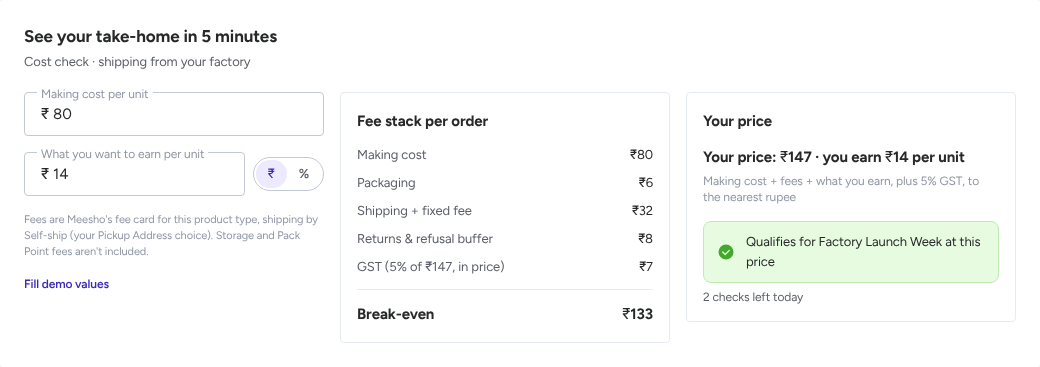
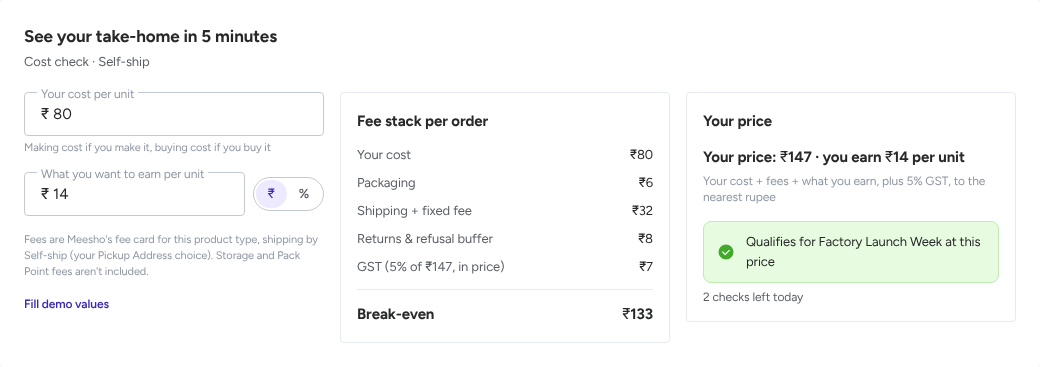
Factory Launch open to every seller whose price qualifies: 3-item eligibility drawer opening in place, cost check with his own earning and Check price, reseller demo step
Claude-Session: https://claude.ai/code/session_01FXha9ttigUE2ttiZmZeqHv

diff --git a/src/layout/demoGuide.ts b/src/layout/demoGuide.ts
@@ -43,6 +43,18 @@ function makerRecords(p: typeof J | typeof R): MakerRecords {
   return { taxId: p.taxId, businessType: p.businessType, gstNatureOfBusiness: p.gstNatureOfBusiness, udyamMajorActivity: p.udyam.majorActivity } as MakerRecords;
 }
 
+/** The reseller's cost check (team, 22 Oct 2026): his bought-in bottle at his own margin, self-ship. */
+function resellerNumbers() {
+  const p = R.product!;
+  const s = costStack(p.type as ProductTypeId, p.makingCost, p.marginPct, 'selfShip');
+  return {
+    resellerCost: p.makingCost,
+    resellerEarn: s.takeHome,
+    resellerPrice: s.listPrice,
+    resellerQualifies: checkListingPrice(p.type as ProductTypeId, s.listPrice, s.breakEven) === 'qualifies',
+  };
+}
+
 /** Every value the guide quotes, from the engine and the seed. */
 export function guideNumbers() {
   const stack = costStack(J_TYPE, J.product.makingCost, J.product.marginPct, 'selfShip');
@@ -71,7 +83,7 @@ export function guideNumbers() {
     bandLow: demandForType(J_TYPE).priceBand!.low,
     bandHigh: demandForType(J_TYPE).priceBand!.high,
     jasmeetEligible: eligibility(makerRecords(J)).status,
-    resellerEligible: eligibility(makerRecords(R)).status,
+    ...resellerNumbers(),
     botFills: BOT_FILLED_COUNT,
     makerAdds: MAKER_COUNT,
     suggestedLot: suggestedLot(J_TYPE, J.product.makingCost).units,
@@ -143,7 +155,7 @@ export function buildGuide(): GuideStep[] {
       D.onboarding,
       'jasmeet',
       'Outreach, onboarding, what she makes',
-      `${jn} gets a ${n.category} invitation (no product named) → Meesho’s own sign-up → onboarding → finish screen: she picks the ${n.jasmeetType} → teaser “about ${n.gapLow} orders a week at ₹${n.bandLow}–${n.bandHigh}” → cost check: she types ₹${n.makingCost} making cost and ₹${n.takeHome} to earn → “Your price: ₹${n.listPrice} · you earn ₹${n.takeHome}” → Check price: ${yes(n.listQualifies, 'qualifies', 'doesn’t qualify')} → Check my eligibility opens the checklist drawer.`,
+      `${jn} gets a ${n.category} invitation (no product named) → Meesho’s own sign-up → onboarding → finish screen: she picks the ${n.jasmeetType} → teaser “about ${n.gapLow} orders a week at ₹${n.bandLow}–${n.bandHigh}” → cost check: she types ₹${n.makingCost} cost and ₹${n.takeHome} to earn → “Your price: ₹${n.listPrice} · you earn ₹${n.takeHome}” → Check price: ${yes(n.listQualifies, 'qualifies', 'doesn’t qualify')} → Check my eligibility opens the checklist drawer.`,
       { label: 'Open outreach', persona: 'jasmeet', day: D.onboarding, path: onboarding.outreach },
       [
         { label: 'Sign-up', persona: 'jasmeet', day: D.onboarding, path: onboarding.signup },
@@ -154,10 +166,10 @@ export function buildGuide(): GuideStep[] {
       2,
       D.onboarding,
       'jasmeet',
-      'Business Details checks',
-      `Business Details: GST + Udyam pass → ${n.jasmeetEligible === 'eligible' ? 'eligible' : n.jasmeetEligible}. (Switch to Reseller: ${n.resellerEligible === 'notEligible' ? 'not eligible' : n.resellerEligible}.)`,
+      'Factory verified · resellers can join, but their margin prices them out',
+      `Business Details: GST + Udyam checks run silently → ${yes(n.jasmeetEligible === 'eligible', 'Factory verified ✓', 'no badge')} (the “Direct from the maker” label and Pack Point access; not a launch gate). As Reseller: cost check ₹${n.resellerCost} + ₹${n.resellerEarn} to earn → “Your price: ₹${n.resellerPrice}” → Check price: ${yes(n.resellerQualifies, 'qualifies', 'not eligible at this price')}. He can still list and sell at ₹${n.resellerPrice}.`,
       { label: 'Open Business Details', path: onboarding.businessDetails },
-      [{ label: 'As Reseller', persona: 'reseller', day: D.onboarding, path: onboarding.businessDetails }],
+      [{ label: 'Reseller’s cost check', persona: 'reseller', day: D.onboarding, path: `${onboarding.done}?state=checked` }],
     ),
     step(
       3,

diff --git a/src/layout/demoGuide.test.ts b/src/layout/demoGuide.test.ts
@@ -25,7 +25,7 @@ describe('demo guide numbers — recomputed from engine/seed', () => {
     expect([n.listPrice, n.takeHome]).toEqual([147, 14]);
     expect(checkListingPrice('steel-bottle-1l', 147, 133)).toBe('qualifies');
     expect(n.listQualifies).toBe(true);
-    expect(text(1)).toContain('₹80 making cost and ₹14 to earn → “Your price: ₹147 · you earn ₹14” → Check price: qualifies');
+    expect(text(1)).toContain('₹80 cost and ₹14 to earn → “Your price: ₹147 · you earn ₹14” → Check price: qualifies');
     // Teaser after onboarding, for the type she picks (plan §10 step 1, updated)
     expect(text(1)).toContain('picks the 1 L steel water bottle → teaser “about 300 orders a week at ₹150–170”');
     expect(text(1)).toContain('Home & Kitchen invitation');
@@ -33,10 +33,14 @@ describe('demo guide numbers — recomputed from engine/seed', () => {
     expect(text(3)).toContain('List at ₹147 · take home ₹14, Qualifies');
   });
 
-  it('Jasmeet eligible, reseller not eligible (step 2)', () => {
-    expect([n.jasmeetEligible, n.resellerEligible]).toEqual(['eligible', 'notEligible']);
-    expect(text(2)).toContain('→ eligible');
-    expect(text(2)).toContain('Reseller: not eligible');
+  it('Jasmeet Factory verified; the reseller’s ₹120 + ₹20 → ₹195 doesn’t qualify (step 2)', () => {
+    expect(n.jasmeetEligible).toBe('eligible');
+    const r = costStack('steel-bottle-1l', 120, 16.7, 'selfShip');
+    expect([r.takeHome, r.breakEven, r.listPrice]).toEqual([20, 175, 195]);
+    expect(checkListingPrice('steel-bottle-1l', 195, 175)).toBe('aboveCap');
+    expect([n.resellerPrice, n.resellerQualifies]).toEqual([195, false]);
+    expect(text(2)).toContain('Factory verified ✓');
+    expect(text(2)).toContain('As Reseller: cost check ₹120 + ₹20 to earn → “Your price: ₹195” → Check price: not eligible at this price');
   });
 
   it('Meesho fills 21, she adds 14 (step 3)', () => {
@@ -121,8 +125,8 @@ describe('demo guide jumps', () => {
     expect(jumpHref(DEMO_GUIDE[3]!.jump)).toMatch(/\?tab=FACTORY_LAUNCH&persona=jasmeet&day=5&lang=en$/);
   });
 
-  it('step 6 links the Business Dashboard; step 2 offers the Reseller', () => {
+  it('step 6 links the Business Dashboard; step 2 offers the Reseller’s cost check (checked)', () => {
     expect(DEMO_GUIDE[5]!.also.map((a) => a.path)).toContain(paths.businessDashboard);
-    expect(DEMO_GUIDE[1]!.also[0]).toMatchObject({ persona: 'reseller', path: onboarding.businessDetails });
+    expect(DEMO_GUIDE[1]!.also[0]).toMatchObject({ persona: 'reseller', path: `${onboarding.done}?state=checked` });
   });
 });

diff --git a/src/layout/Sidebar.tsx b/src/layout/Sidebar.tsx
@@ -85,13 +85,13 @@ function Group({ item, pathname, onNavigate, inactive }: { item: SidebarGroup; p
   );
 }
 
-/** C2M LW-6: "Factory Launch" under Boost Sales, for makers who passed the checks; Promotions → Factory Launch tab. */
+/** C2M LW-6: "Factory Launch" under Boost Sales, for every seller whose product is in the launch category; Promotions → Factory Launch tab. */
 const FL_LEAF: SidebarLeaf = { label: FL.sidebar, icon: '/brand/msa/merlin/filled/promotions-v2.svg', to: paths.factoryLaunch };
 
 export function Sidebar({ onNavigate }: { onNavigate?: () => void }) {
   const { pathname, search } = useLocation();
   const noticesActive = matches(pathname, paths.notices);
-  // LW-6: eligible makers also get the pinned Factory Launch notice, counted in "Notices (n)", and the sidebar item.
+  // LW-6: sellers in the launch category also get the pinned Factory Launch notice, counted in "Notices (n)", and the sidebar item.
   const flEligible = useFlVisible();
   const noticeCount = 1 + (flEligible ? 1 : 0);
   const flActive =

diff --git a/src/pages/onboarding/finish/copy.ts b/src/pages/onboarding/finish/copy.ts
@@ -35,7 +35,7 @@ export const FIN = {
   noDemand: 'No demand data for this product type yet', // prompt
   // FO-5 cost check (the new copy, from the earning input to the Factory Launch status, is in src/i18n: cost.*)
   costTitle: 'See your take-home in 5 minutes', // doc
-  costSub: (mode: 'selfShip' | 'packPoint') => `Cost check · ${mode === 'packPoint' ? 'shipping through the Pack Point' : 'shipping from your factory'}`, // ours (FO-8 choice)
+  costSub: (mode: 'selfShip' | 'packPoint') => `Cost check · ${mode === 'packPoint' ? 'shipping through the Pack Point' : 'Self-ship'}`, // ours (FO-8 choice)
   feeStack: 'Fee stack per order', // ours
   breakEven: 'Break-even', // ours
   noFeeCard: 'The cost check needs this product type’s fee card, which isn’t in this prototype yet.', // ours

diff --git a/src/pages/panel/Home.tsx b/src/pages/panel/Home.tsx
@@ -2,7 +2,7 @@
 //   default    → reference/screens/home.png: step 1 "Upload catalogs to get started"
 //   ?state=qc  → reference/html/meesho-home.html: step 2 with the QC status table
 //   live       → (C2M, LB-8) after "Go live" from photos: step 2 shows the live catalog
-// C2M LW-6: the Factory Launch banner sits above "Welcome…" for makers who passed the checks.
+// C2M LW-6: the Factory Launch banner sits above "Welcome…" for every seller whose product is in the launch category.
 // Later phases will pick the state from the demo day instead of the query string.
 import { useSearchParams } from 'react-router';
 import { notInPrototype } from '../../components/Toast';

diff --git a/src/app/paths.ts b/src/app/paths.ts
@@ -49,7 +49,7 @@ export const onboarding = {
   pickupAddress: '/onboarding/pickup-address',
   bankDetails: '/onboarding/bank-details',
   supplierDetails: '/onboarding/supplier-details',
-  /** C2M (FO-4, FO-5, FO-7): after Submit, verified manufacturers only — "What do you make?" */
+  /** C2M (FO-4, FO-5, FO-7): after Submit, every seller — "What do you sell?" */
   done: '/onboarding/done',
 } as const;
 

diff --git a/src/pages/panel/Notices.tsx b/src/pages/panel/Notices.tsx
@@ -20,7 +20,7 @@ function NoticeCard({ title, date, body }: Notice) {
 }
 
 export default function Notices() {
-  // C2M LW-6: a pinned Factory Launch notice on top, for makers who passed the checks.
+  // C2M LW-6: a pinned Factory Launch notice on top, for every seller whose product is in the launch category.
   const pinned = useFlVisible();
   return (
     <div>

diff --git a/src/pages/panel/ManagePricing.tsx b/src/pages/panel/ManagePricing.tsx
@@ -130,7 +130,7 @@ function FilterBar() {
   );
 }
 
-/** C2M PI-2: the fifth tab, only for a maker who passed the checks and has a Factory Launch listing (doc p.7). */
+/** C2M PI-2: the fifth tab, only for a seller with a Factory Launch listing (doc p.7). */
 export const PRICE_POSITION_TAB = 'price-position';
 
 export default function ManagePricing() {
